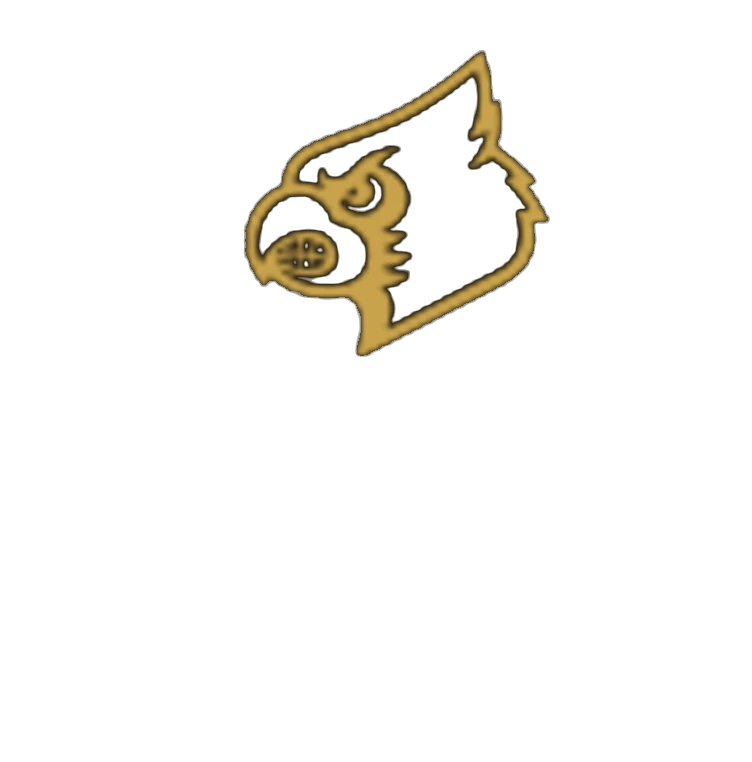
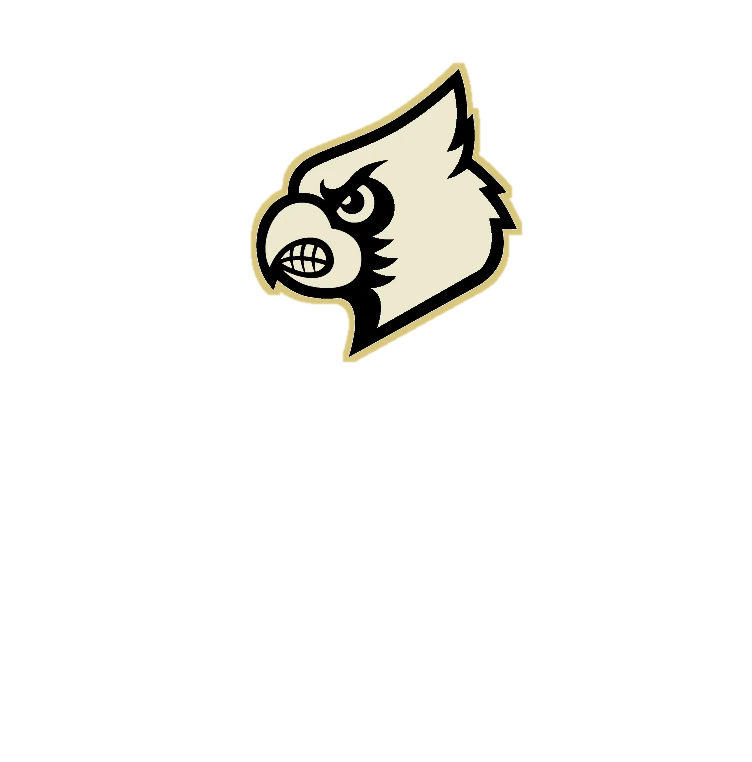
Match the Halloween helmet to Doc's photos of the real one
Matte black shell; the cardinal head filled cream with its black linework
and a thin metallic gold keyline (built from the Red Gold head by
tools/halloween_helmet.py); a gold / black / gold / black / gold foil center
stripe; and on the back a flag sticker and CARDINALS in gold on the bumper
in place of the number. The panel's side-view art is redrawn to match and
ART_VERSION is bumped.

Claude-Session: https://claude.ai/code/session_01Ahpexyau72aPp5qcUwHVtJ

Changed region(s): [[0.3059, 0.0604, 0.734, 0.4829]]

diff --git a/src/model.js b/src/model.js
@@ -575,6 +575,10 @@ export class Player {
         // decal must read the same way on both sides (scripts). -1 mirrors.
         uDecalFlip: { value: -1 },
         uDecalMetal: { value: 0 },
+        // 1 makes the decal's gold (saturated) pixels metallic, like a foil keyline.
+        uDecalGold: { value: 0 },
+        // 1 makes the stripes metallic foil instead of paint.
+        uStripeMetal: { value: 0 },
       },
     };
 
@@ -1466,8 +1470,12 @@ export class Player {
           uniform vec2 uShellFront;
           uniform float uDecalFlip;
           uniform float uDecalMetal;
+          uniform float uDecalGold;
+          uniform float uStripeMetal;
           float paintMask = 0.0;
+          float stripeMask = 0.0;
           float decalMask = 0.0;
+          float goldMask = 0.0;
           ${HELMET_BACK_GLSL}`,
         // The decal art is a side view from the player's left: art x runs
         // from the shell's front toward its back, art y down from its top.
@@ -1477,6 +1485,8 @@ export class Player {
             vec3 before = diffuseColor.rgb;
             if (outer) diffuseColor.rgb = applyBands(diffuseColor.rgb, vObjPos.x);
             paintMask = step(0.001, distance(before, diffuseColor.rgb));
+            // Bands can match the shell (black on black), so foil follows their coverage.
+            if (outer) stripeMask = max(bandMask(vObjPos.x, uBandAt.x, uBandW.x), max(bandMask(vObjPos.x, uBandAt.y, uBandW.y), bandMask(vObjPos.x, uBandAt.z, uBandW.z)));
             float side = sign(vObjPos.x);
             float facing = side * normalize(vObjNormal).x;
             if (outer && uDecalOn > 0.5 && facing > 0.2) {
@@ -1487,7 +1497,9 @@ export class Player {
               if (duv.x > 0.0 && duv.x < 1.0 && duv.y > 0.0 && duv.y < 1.0) {
                 vec4 d = texture2D(uDecal, duv);
                 decalMask = d.a * smoothstep(0.2, 0.4, facing);
+                goldMask = decalMask * uDecalGold * smoothstep(0.18, 0.28, max(d.r, max(d.g, d.b)) - min(d.r, min(d.g, d.b)));
                 diffuseColor.rgb = mix(diffuseColor.rgb, d.rgb, decalMask);
+                stripeMask *= 1.0 - decalMask;
               }
             }
             if (outer) {
@@ -1514,14 +1526,15 @@ export class Player {
       pads: new THREE.MeshStandardMaterial({ name: 'pads', color: '#1b1b1e', roughness: 0.9 }),
       hardware: new THREE.MeshStandardMaterial({ name: 'hardware', color: '#b8bbc1', metalness: 0.55, roughness: 0.35 }),
     };
-    // Stripes read as paint; a chrome decal reads as polished metal.
+    // Stripes read as paint unless they're foil; a chrome decal, or a decal's
+    // gold keyline, reads as polished metal.
     const shell = this.hm.shell;
     const base = shell.onBeforeCompile;
     shell.onBeforeCompile = (s) => {
       base(s);
       s.fragmentShader = s.fragmentShader
-        .replace('#include <metalnessmap_fragment>', '#include <metalnessmap_fragment>\nmetalnessFactor = mix(metalnessFactor * (1.0 - paintMask), 1.0, decalMask * uDecalMetal);')
-        .replace('#include <roughnessmap_fragment>', '#include <roughnessmap_fragment>\nroughnessFactor = mix(roughnessFactor, 0.12, decalMask * uDecalMetal);');
+        .replace('#include <metalnessmap_fragment>', '#include <metalnessmap_fragment>\nmetalnessFactor = mix(metalnessFactor * (1.0 - paintMask), 1.0, max(max(decalMask * uDecalMetal, goldMask), stripeMask * uStripeMetal));')
+        .replace('#include <roughnessmap_fragment>', '#include <roughnessmap_fragment>\nroughnessFactor = mix(mix(roughnessFactor, 0.12, decalMask * uDecalMetal), 0.3, max(goldMask, stripeMask * uStripeMetal));');
     };
     // Where the shell's front and top are, for placing the side-view decal.
     const shellMesh = this.helmetParts.shell;
@@ -1682,6 +1695,8 @@ export class Player {
     u.shell.uDecalArt.value.set(h.decalArt.frontX, h.decalArt.topY, h.decalArt.pxPerUnit);
     u.shell.uDecalSize.value.set(h.decalArt.width, h.decalArt.height);
     u.shell.uDecalMetal.value = h.decalMetal;
+    u.shell.uDecalGold.value = h.decalGold ?? 0;
+    u.shell.uStripeMetal.value = h.stripeMetal ?? 0;
     hm.mask.color.set(look.facemask);
     const strap = look.facemask === BRAND.black ? BRAND.black : BRAND.white;
     hm.strap.color.set(strap);
@@ -1723,7 +1738,7 @@ export class Player {
     paint.paintBackLettering(this.canvases.backLetters, look.jersey.spec, look.jersey.style, look.backNumber, look.name);
     this.placeTv(look.jersey.style);
     paint.paintTvDecals(this.canvases.tv, look.jersey.spec, look.jersey.style, look.number);
-    paint.paintHelmetBack(this.canvases.helmetBack, HELMET_BACK, look.backNumber, look.helmet.spec.shell);
+    paint.paintHelmetBack(this.canvases.helmetBack, HELMET_BACK, look.backNumber, look.helmet.spec.shell, look.helmet.spec.back);
     const lc = this.canvases.logos.getContext('2d');
     lc.clearRect(0, 0, this.canvases.logos.width, this.canvases.logos.height);
     lc.drawImage(logos, 0, 0, this.canvases.logos.width, this.canvases.logos.height);

diff --git a/src/textures.js b/src/textures.js
@@ -135,24 +135,54 @@ export function paintTvDecals(canvas, spec, style, number) {
 // extent in helmet units (half-width x, top and bottom y). The number is
 // Cardinal Red on light shells and white on red or black ones; the bumper
 // lettering is white on the black bumper.
-export function paintHelmetBack(canvas, area, number, shell) {
+export function paintHelmetBack(canvas, area, number, shell, back = {}) {
   const ctx = canvas.getContext('2d');
   const { width: W, height: H } = canvas;
   ctx.clearRect(0, 0, W, H);
   const k = H / (area.top - area.bottom); // px per helmet unit
   const y = (v) => (area.top - v) * k;
-  const numberH = 0.22 * k;
-  drawText(ctx, number, {
-    family: FONTS.jersey, cx: W / 2, cy: y(0.1), height: numberH,
-    sx: Math.min(1, (0.3 * k) / textWidth(ctx, number, FONTS.jersey, numberH)),
-    fill: isLight(shell) ? '#C9001F' : '#FFFFFF',
-  });
+  if (back.number !== false) {
+    const numberH = 0.22 * k;
+    drawText(ctx, number, {
+      family: FONTS.jersey, cx: W / 2, cy: y(0.1), height: numberH,
+      sx: Math.min(1, (0.3 * k) / textWidth(ctx, number, FONTS.jersey, numberH)),
+      fill: isLight(shell) ? '#C9001F' : '#FFFFFF',
+    });
+  }
+  if (back.flag) paintFlag(ctx, W / 2 + back.flag.x * k, y(back.flag.y), back.flag.w * k);
+  const word = back.word ?? 'LOUISVILLE';
   const wordH = 0.05 * k;
-  drawText(ctx, 'LOUISVILLE', {
+  drawText(ctx, word, {
     family: FONTS.display, cx: W / 2, cy: y(-0.5), height: wordH, spacing: 4,
-    sx: Math.min(1, (0.46 * k) / textWidth(ctx, 'LOUISVILLE', FONTS.display, wordH, '', 4)),
-    fill: '#FFFFFF',
+    sx: Math.min(1, (0.46 * k) / textWidth(ctx, word, FONTS.display, wordH, '', 4)),
+    fill: back.wordColor ?? '#FFFFFF',
   });
+}
+
+// A U.S. flag sticker centered on (cx, cy), `w` px wide, with a thin white border.
+function paintFlag(ctx, cx, cy, w) {
+  const h = w * 0.55;
+  const x0 = cx - w / 2;
+  const y0 = cy - h / 2;
+  ctx.save();
+  ctx.fillStyle = '#FFFFFF';
+  ctx.fillRect(x0 - w * 0.04, y0 - w * 0.04, w * 1.08, h + w * 0.08);
+  for (let i = 0; i < 13; i++) {
+    ctx.fillStyle = i % 2 ? '#FFFFFF' : '#B22234';
+    ctx.fillRect(x0, y0 + (i * h) / 13, w, h / 13 + 0.5);
+  }
+  ctx.fillStyle = '#3C3B6E';
+  ctx.fillRect(x0, y0, w * 0.4, (h * 7) / 13);
+  ctx.fillStyle = '#FFFFFF';
+  const r = w * 0.012;
+  for (let row = 0; row < 5; row++) {
+    for (let col = 0; col < 6; col++) {
+      ctx.beginPath();
+      ctx.arc(x0 + w * 0.4 * ((col + 0.5 + (row % 2) * 0.25) / 6.25), y0 + ((h * 7) / 13) * ((row + 0.5) / 5), r, 0, Math.PI * 2);
+      ctx.fill();
+    }
+  }
+  ctx.restore();
 }
 
 // The jersey's front art, ready to project. The V-neck is filled with the

diff --git a/src/uniform-art.js b/src/uniform-art.js
@@ -175,10 +175,38 @@ export const ART = {
   },
   "helmet-halloween": {
    "shell": "#000000",
-   "finish": "satin",
+   "finish": "matte",
    "mirror": true,
    "decalMetal": 0,
-   "stripe": [],
+   "stripe": [
+    {
+     "at": 0,
+     "w": 0.08,
+     "color": "#D8C77E"
+    },
+    {
+     "at": 0,
+     "w": 0.062,
+     "color": "#000000"
+    },
+    {
+     "at": 0,
+     "w": 0.024,
+     "color": "#D8C77E"
+    }
+   ],
+   "stripeMetal": 1,
+   "decalGold": 1,
+   "back": {
+    "number": false,
+    "flag": {
+     "x": -0.2,
+     "y": -0.3,
+     "w": 0.15
+    },
+    "word": "CARDINALS",
+    "wordColor": "#D8C77E"
+   },
    "decal": "decal-helmet-halloween",
    "decalArt": {
     "width": 752,

diff --git a/src/combo.js b/src/combo.js
@@ -74,7 +74,7 @@ export function groupHex(group) {
 // Art image for a piece, as the panel and the graphic show it. ART_VERSION
 // changes whenever the art is redrawn, so browsers fetch the new pictures
 // instead of showing ones they cached.
-const ART_VERSION = '2026-10-06a';
+const ART_VERSION = '2026-10-23a';
 export const art = (file) => `assets/uni/${file}.webp?v=${ART_VERSION}`;
 
 export function artUrl(kind, id, state) {

diff --git a/tools/halloween_helmet.py b/tools/halloween_helmet.py
@@ -1,0 +1,124 @@
+#!/usr/bin/env python3
+"""Redraw the Halloween helmet's art to match the real helmet.
+
+Doc's photos of the Halloween helmet (2026-10-23) show a matte black shell,
+the cardinal head on each side filled cream (head, beak, eye and teeth) with
+its usual black linework and a thin metallic gold keyline around the
+outside, and a gold / black / gold / black / gold center stripe. The drawn
+art had only a gold outline of the bird.
+
+This builds the side decal from the Red Gold helmet's cardinal head (same
+drawing, same place on the template), recolors it, and redraws the panel's
+side-view art to match. prepare-uniforms.py calls redraw() after it cuts the
+decals. Run this file directly to patch the WebPs already in assets/uni/
+(running it again draws the same art):
+
+    python3 tools/halloween_helmet.py
+
+Needs Pillow and NumPy.
+"""
+from pathlib import Path
+
+import numpy as np
+from PIL import Image, ImageFilter
+
+from palette import BLACK
+
+ROOT = Path(__file__).resolve().parent.parent
+OUT = ROOT / 'assets' / 'uni'
+NAME = 'helmet-halloween'
+SOURCE = 'decal-helmet-redgold'
+# Read off the photos. Gold is the Halloween alternate's approved accent.
+CREAM = '#EDE8CF'
+GOLD = '#D8C77E'
+# Keyline width around the bird, in pixels of the 752 px decal art.
+KEYLINE = 5
+# Center stripe across the top of the shell, in meters from the center line
+# (later bands paint over earlier ones; the shell shader takes three): gold,
+# black inside it leaving a thin gold edge each side, and a wide gold stripe
+# down the middle. prepare-uniforms.py reads this.
+STRIPE = [{'at': 0, 'w': 0.08, 'color': GOLD},
+          {'at': 0, 'w': 0.062, 'color': BLACK},
+          {'at': 0, 'w': 0.024, 'color': GOLD}]
+# The back of the shell: no number (the stripe runs down the middle), a flag
+# sticker low on the left as seen from behind, and CARDINALS in gold on the
+# bumper. Helmet units from the back's center; see paintHelmetBack.
+BACK = {'number': False, 'flag': {'x': -0.2, 'y': -0.3, 'w': 0.15}, 'word': 'CARDINALS', 'wordColor': GOLD}
+# The same stripe on the 376 px side-view art: (inset from the shell's top
+# edge, color) for each pixel row, outside in.
+SIDE_STRIPE = [GOLD] * 2 + [BLACK] * 4 + [GOLD] * 5 + [BLACK] * 4 + [GOLD] * 2
+SIDE_INSET = 5
+
+
+def rgb(h):
+    return np.array([int(h[i:i + 2], 16) for i in (1, 3, 5)], float)
+
+
+def grow(mask, px):
+    img = Image.fromarray((mask * 255).astype(np.uint8))
+    for _ in range(px):
+        img = img.filter(ImageFilter.MaxFilter(3))
+    return np.array(img).astype(float) / 255
+
+
+def decal():
+    """The cream cardinal head with its gold keyline, as RGBA."""
+    a = np.array(Image.open(OUT / f'{SOURCE}.webp').convert('RGBA')).astype(float)
+    alpha = a[:, :, 3] / 255
+    # Black linework stays black; everything lighter (gold head and beak,
+    # white eye and teeth) turns cream, keeping the art's anti-aliasing.
+    light = (a[:, :, :3].max(axis=2) / 255).clip(0, 1)
+    light = ((light - 0.15) / 0.5).clip(0, 1)
+    color = rgb(BLACK)[None, None, :] * (1 - light[..., None]) + rgb(CREAM)[None, None, :] * light[..., None]
+    key = grow(alpha > 0.5, KEYLINE)
+    key = np.array(Image.fromarray((key * 255).astype(np.uint8)).filter(ImageFilter.GaussianBlur(0.8))).astype(float) / 255
+    out_a = alpha + key * (1 - alpha)
+    out_c = (color * alpha[..., None] + rgb(GOLD)[None, None, :] * (key * (1 - alpha))[..., None]) / np.maximum(out_a, 1e-6)[..., None]
+    out = np.dstack([out_c, out_a * 255]).clip(0, 255).astype(np.uint8)
+    return Image.fromarray(out, 'RGBA')
+
+
+def side_view(img, new_decal, old_decal):
+    """The panel's side-view art with the old bird painted out, the new one
+    in, and the center stripe along the top of the shell."""
+    a = np.array(img.convert('RGBA')).astype(float)
+    h, w = a.shape[:2]
+    half = lambda im: np.array(im.resize((w, h), Image.LANCZOS)).astype(float)
+    old = grow(half(old_decal)[:, :, 3] > 20, 2)
+    a[:, :, :3] = a[:, :, :3] * (1 - old[..., None]) + rgb(BLACK)[None, None, :] * old[..., None]
+
+    # The stripe follows the shell's top edge, measured straight down from it
+    # in each column (the art's top is a smooth curve), between the facemask
+    # and the back of the shell. Supersampled so its edges stay smooth.
+    top = np.array([np.argmax(a[:, x, 3] > 128) for x in range(w)], float)
+    top = np.convolve(np.pad(top, 3, mode='edge'), np.ones(7) / 7, mode='valid')
+    yy, xx = np.mgrid[0:h, 0:w].astype(float)
+    reach = (a[:, :, 3] > 128) & (xx > 0.2 * w) & (xx < 0.93 * w)
+    colors = np.array([rgb(c) for c in SIDE_STRIPE])
+    acc = np.zeros((h, w, 3))
+    cover = np.zeros((h, w))
+    for sub in np.linspace(-0.375, 0.375, 4):
+        v = yy + sub - top[None, :] - SIDE_INSET
+        i = np.floor(v).astype(int)
+        on = reach & (i >= 0) & (i < len(SIDE_STRIPE))
+        acc[on] += colors[i[on]] * 0.25
+        cover[on] += 0.25
+    k = cover[..., None]
+    a[:, :, :3] = a[:, :, :3] * (1 - k) + acc
+    d = half(new_decal)
+    k = d[:, :, 3:] / 255
+    a[:, :, :3] = a[:, :, :3] * (1 - k) + d[:, :, :3] * k
+    return Image.fromarray(a.clip(0, 255).astype(np.uint8), 'RGBA')
+
+
+def redraw(out=OUT):
+    old = Image.open(out / f'decal-{NAME}.webp').convert('RGBA')
+    new = decal()
+    for mask in ('red', 'white', 'black'):
+        path = out / f'{NAME}-mask-{mask}.webp'
+        side_view(Image.open(path), new, old).save(path, 'WEBP', quality=88, method=6)
+    new.save(out / f'decal-{NAME}.webp', 'WEBP', quality=90, method=6)
+
+
+if __name__ == '__main__':
+    redraw()

diff --git a/tools/prepare-uniforms.py b/tools/prepare-uniforms.py
@@ -24,6 +24,7 @@ sys.path.insert(0, str(Path(__file__).parent))
 from palette import BLACK, RED, WHITE, snap  # noqa: E402
 from black_collar import COLLAR, blacken_collar  # noqa: E402
 from hip_mark import MARK_PANTS, redraw_mark  # noqa: E402
+import halloween_helmet  # noqa: E402
 from pants_panels import STRIPES, draw_panels  # noqa: E402
 
 SRC = Path(sys.argv[1] if len(sys.argv) > 1 else 'uni-src')
@@ -45,7 +46,9 @@ HELMETS = {
     'helmet-script': {'finish': 'gloss', 'mirror': False},
     'helmet-redscript': {'finish': 'gloss', 'mirror': False},
     'helmet-whitestripe': {'finish': 'gloss', 'stripe': [{'at': 0, 'w': 0.06, 'color': RED}]},
-    'helmet-halloween': {'finish': 'satin'},
+    # From Doc's photos of the real helmet (2026-10-23); see halloween_helmet.py.
+    'helmet-halloween': {'finish': 'matte', 'stripe': halloween_helmet.STRIPE, 'stripeMetal': 1, 'decalGold': 1,
+                         'back': halloween_helmet.BACK},
     'helmet-redgold': {'finish': 'gloss'},
     'helmet-blackchrome': {'finish': 'gloss', 'decalMetal': 1},
     'helmet-blackmatte': {'finish': 'matte', 'threshold': 10},
@@ -176,6 +179,10 @@ for name, opts in HELMETS.items():
         'decalMetal': opts.get('decalMetal', 0), 'stripe': opts.get('stripe', []),
         'decal': f'decal-{name}', 'decalArt': {'width': w, 'height': h, 'frontX': 85, 'topY': 5, 'pxPerUnit': 541.7},
     }
+    for key in ('stripeMetal', 'decalGold', 'back'):
+        if key in opts:
+            spec['helmet'][name][key] = opts[key]
+halloween_helmet.redraw(OUT)
 
 # ---------- jerseys ----------
 # Front views on one template (1366 x 1408): V-neck tip at (683, 380),
